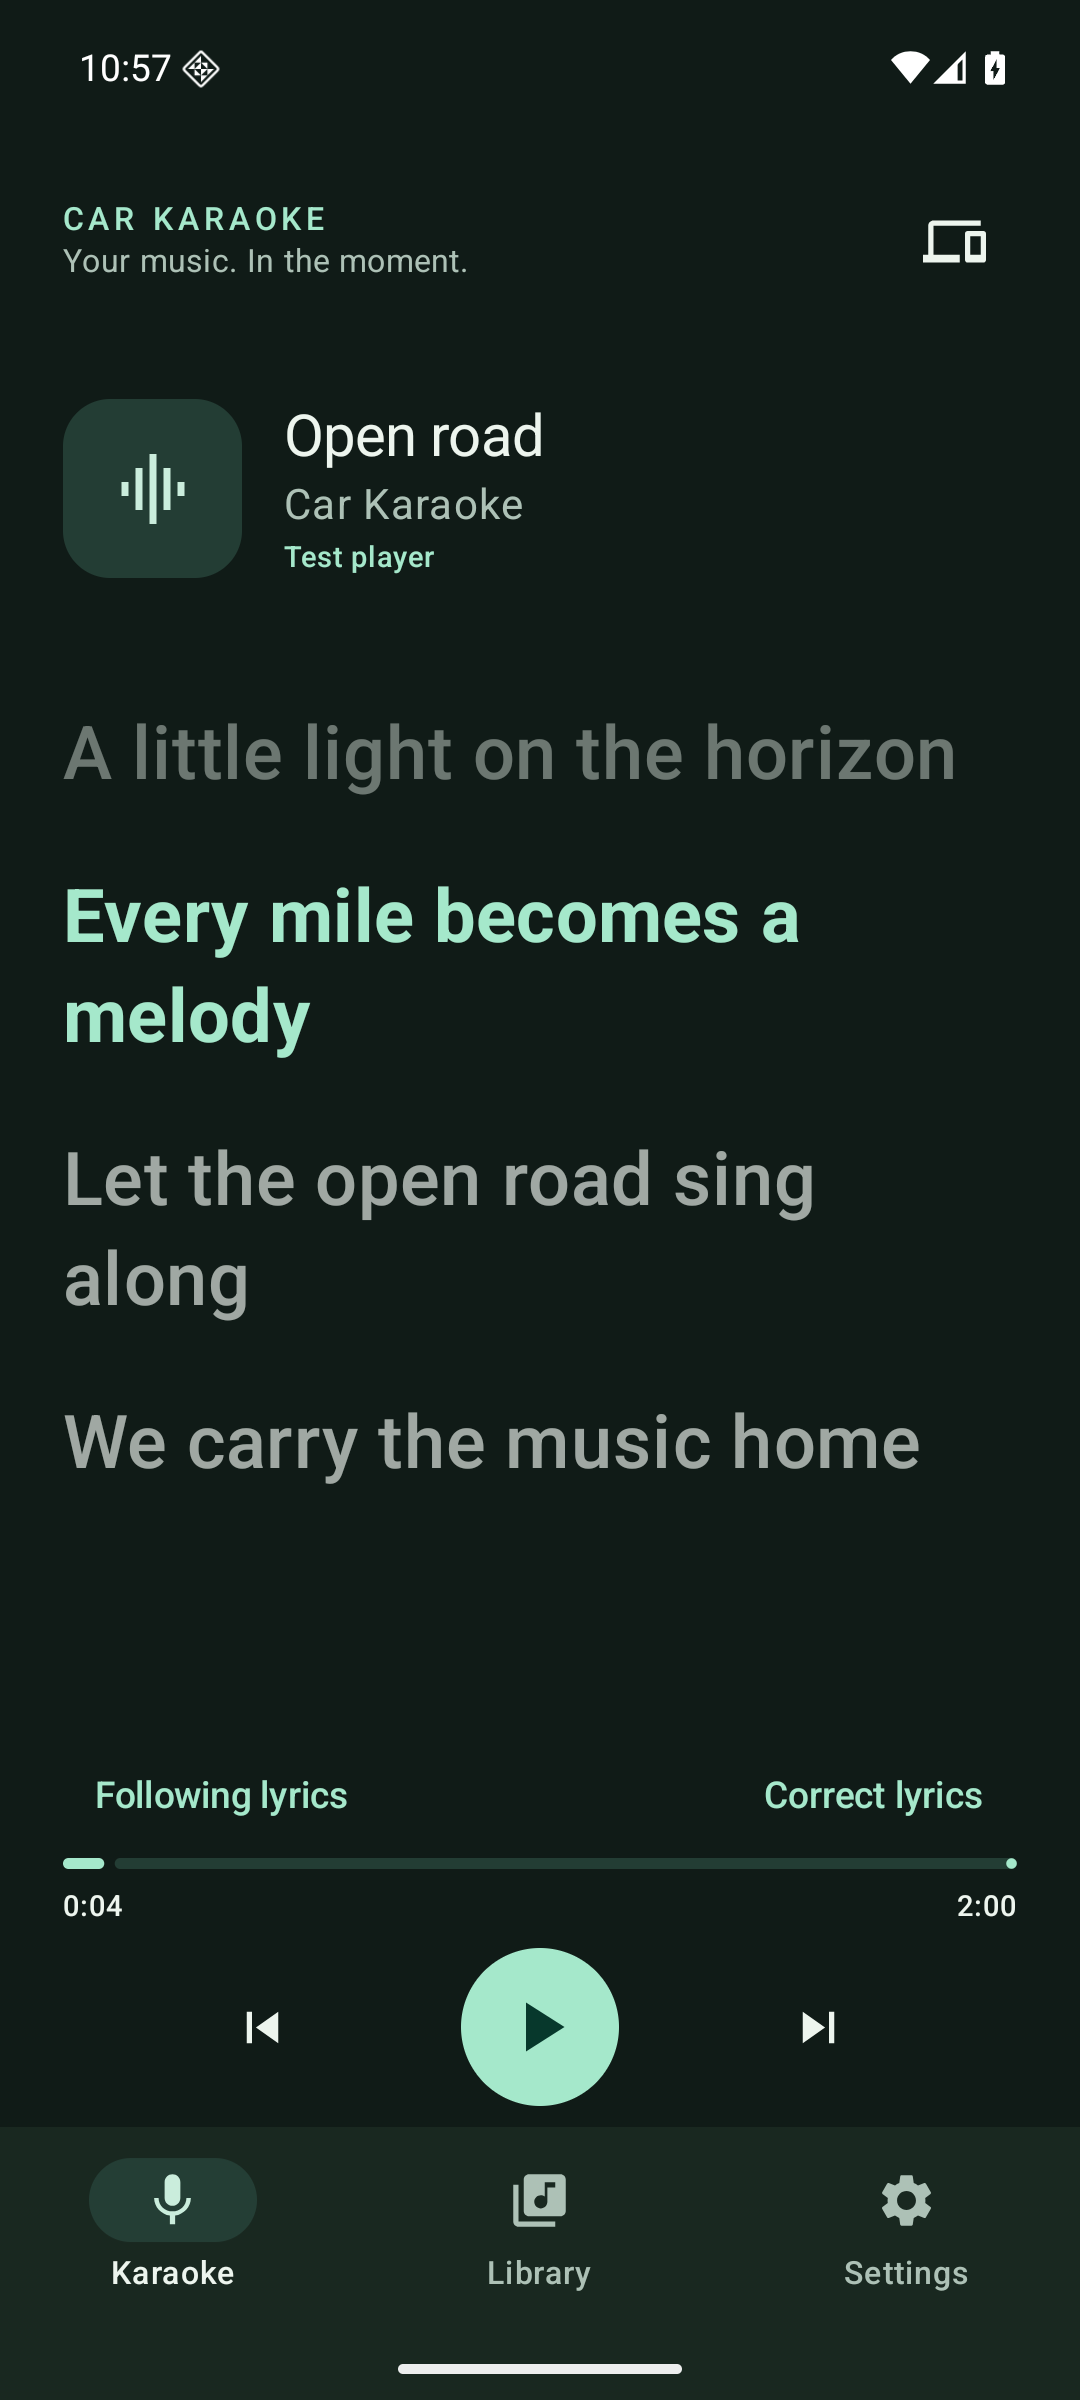
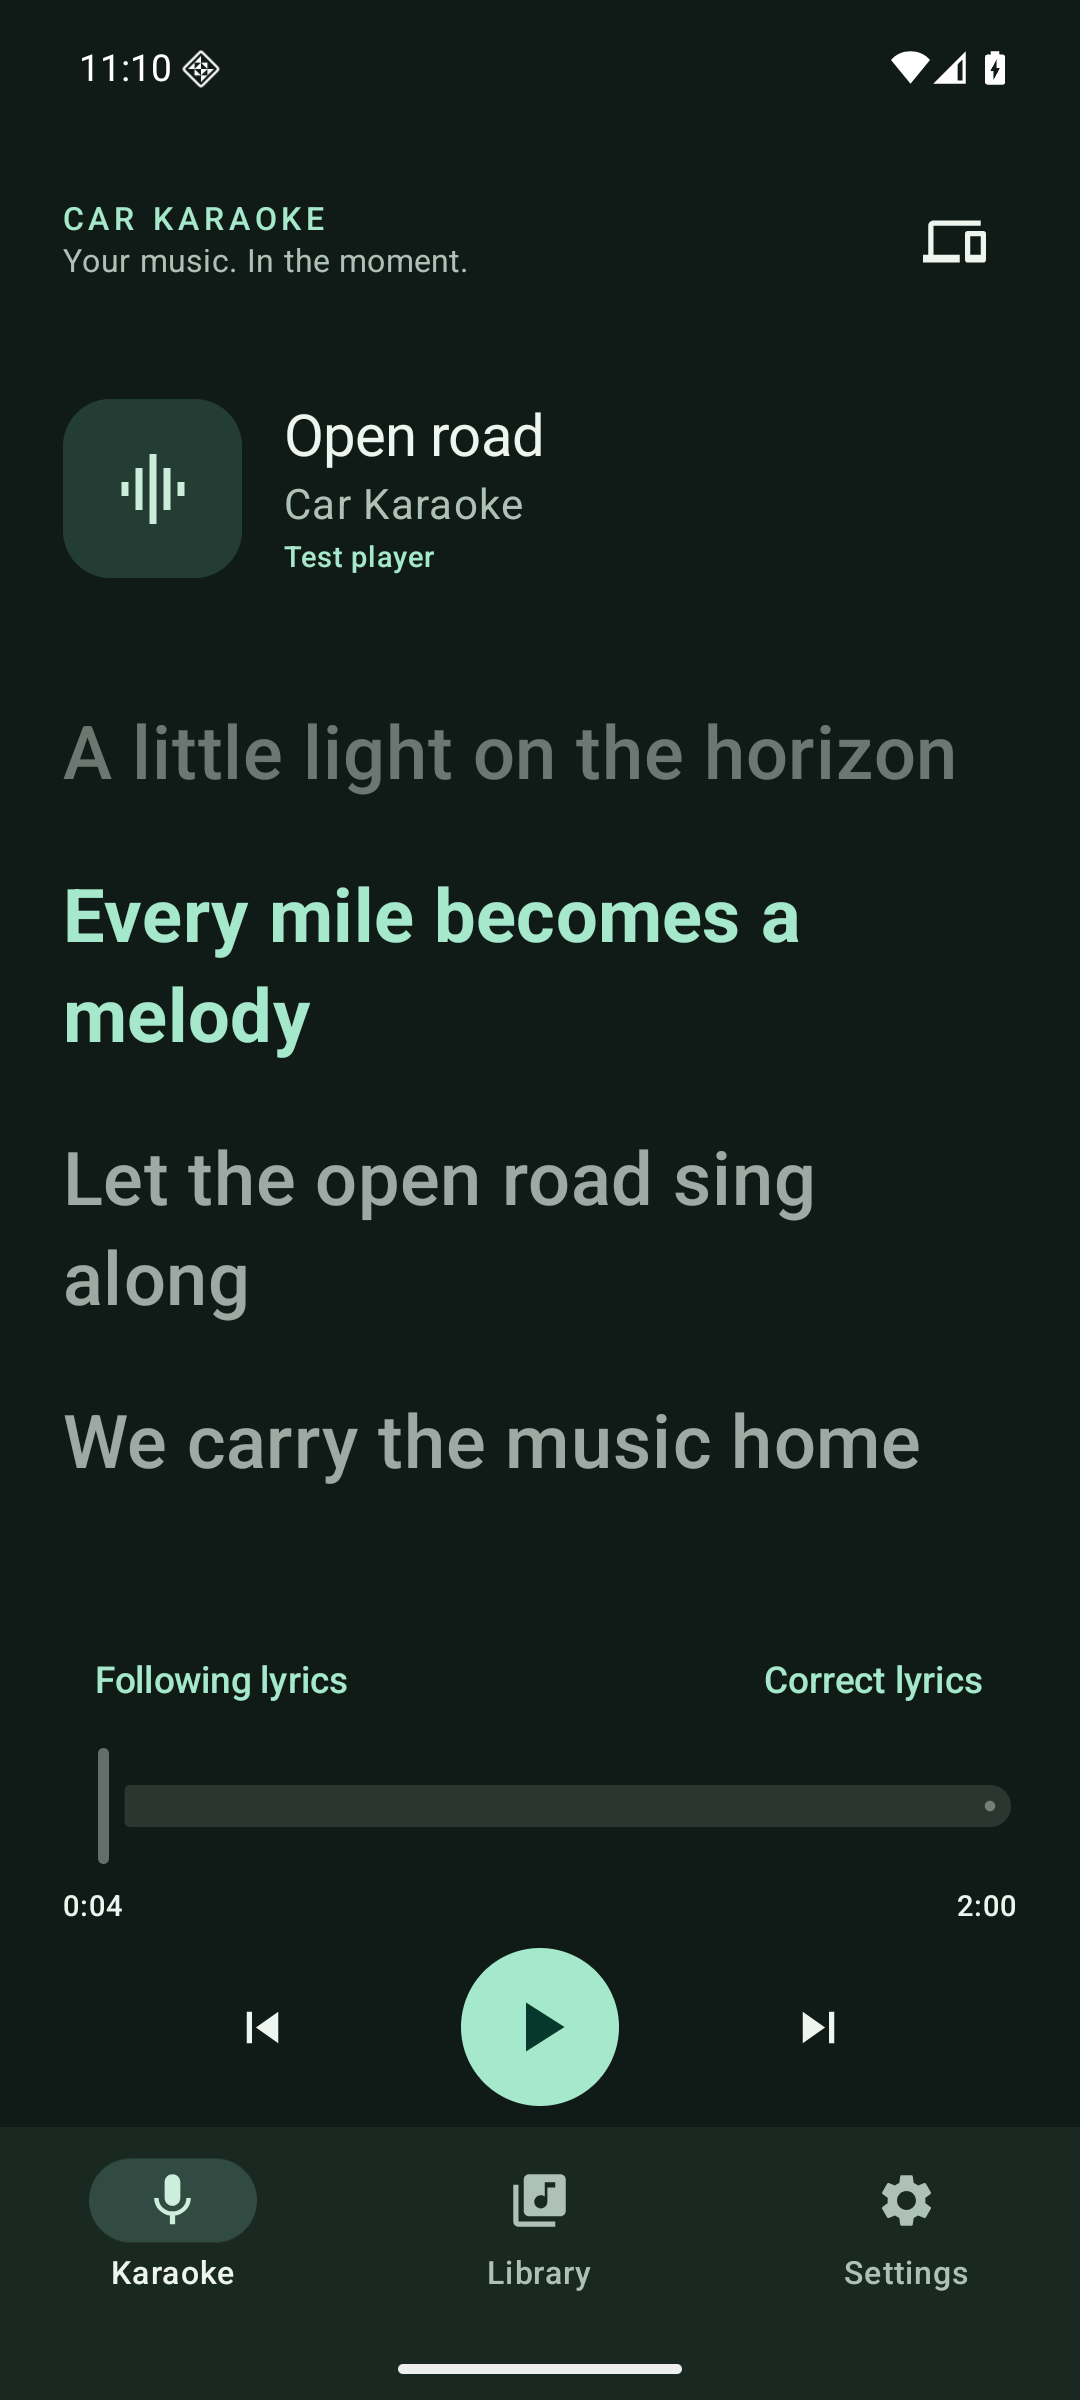
Finish playback controls and acceptance checks

Changed region(s): [[0.0611, 0.6875, 0.9472, 0.7812], [0.0917, 0.0, 0.1528, 0.0312]]

diff --git a/app/src/main/java/io/github/milankablar/carkaraoke/MediaBridgeMediaCallback.kt b/app/src/main/java/io/github/milankablar/carkaraoke/MediaBridgeMediaCallback.kt
@@ -22,7 +22,7 @@ class MediaBridgeMediaCallback internal constructor(
     )
 
     override fun onMediaButtonEvent(mediaButtonEvent: Intent?): Boolean {
-        if (!MediaBridgeSessionManager.isControllerTrusted()) return false
+        if (!MediaBridgeSessionManager.isControllerTrusted() || !canControlActiveSource()) return false
         val keyEvent = mediaButtonEvent?.getParcelableExtra<KeyEvent>(Intent.EXTRA_KEY_EVENT)
 
         if (isSwapEnabled() && keyEvent?.action == KeyEvent.ACTION_DOWN) {
@@ -45,7 +45,7 @@ class MediaBridgeMediaCallback internal constructor(
     }
 
     override fun onPlay() {
-        if (!MediaBridgeSessionManager.isControllerTrusted()) return
+        if (!MediaBridgeSessionManager.isControllerTrusted() || !canControlActiveSource()) return
         Log.d("MediaBridge", "▶ onPlay triggered")
         DiagnosticLogger.info(context, DiagnosticModule.MEDIA, "Play requested")
         MediaControllerManager.getActiveController(context)?.transportControls?.play()
@@ -60,7 +60,7 @@ class MediaBridgeMediaCallback internal constructor(
     }
 
     override fun onPause() {
-        if (!MediaBridgeSessionManager.isControllerTrusted()) return
+        if (!MediaBridgeSessionManager.isControllerTrusted() || !canControlActiveSource()) return
         Log.d("MediaBridge", "⏸ onPause triggered")
         DiagnosticLogger.info(context, DiagnosticModule.MEDIA, "Pause requested")
         MediaControllerManager.getActiveController(context)?.transportControls?.pause()
@@ -68,7 +68,7 @@ class MediaBridgeMediaCallback internal constructor(
     }
 
     override fun onSkipToNext() {
-        if (!MediaBridgeSessionManager.isControllerTrusted()) return
+        if (!MediaBridgeSessionManager.isControllerTrusted() || !canControlActiveSource()) return
         Log.d("MediaBridge", "⏭ onSkipToNext triggered")
         DiagnosticLogger.info(context, DiagnosticModule.MEDIA, "Skip next requested")
         if (isSwapEnabled()) {
@@ -80,7 +80,7 @@ class MediaBridgeMediaCallback internal constructor(
     }
 
     override fun onSkipToPrevious() {
-        if (!MediaBridgeSessionManager.isControllerTrusted()) return
+        if (!MediaBridgeSessionManager.isControllerTrusted() || !canControlActiveSource()) return
         Log.d("MediaBridge", "⏮ onSkipToPrevious triggered")
         DiagnosticLogger.info(context, DiagnosticModule.MEDIA, "Skip previous requested")
         if (isSwapEnabled()) {
@@ -92,7 +92,7 @@ class MediaBridgeMediaCallback internal constructor(
     }
 
     override fun onSeekTo(pos: Long) {
-        if (!MediaBridgeSessionManager.isControllerTrusted()) return
+        if (!MediaBridgeSessionManager.isControllerTrusted() || !canControlActiveSource()) return
         Log.d("MediaBridge", "🎯 onSeekTo triggered: $pos ms")
         DiagnosticLogger.info(context, DiagnosticModule.MEDIA, "Seek requested", mapOf("positionMs" to pos))
         MediaControllerManager.getActiveController(context)?.transportControls?.seekTo(pos)
@@ -101,7 +101,7 @@ class MediaBridgeMediaCallback internal constructor(
     }
 
     override fun onRewind() {
-        if (!MediaBridgeSessionManager.isControllerTrusted()) return
+        if (!MediaBridgeSessionManager.isControllerTrusted() || !canControlActiveSource()) return
         val controller = MediaControllerManager.getActiveController(context) ?: return
         val pos = controller.playbackState?.let { MediaInformationRetriever.getCurrentPositionMs(it) } ?: 0L
         val newPos = (pos - 10_000).coerceAtLeast(0L)
@@ -112,7 +112,7 @@ class MediaBridgeMediaCallback internal constructor(
     }
 
     override fun onFastForward() {
-        if (!MediaBridgeSessionManager.isControllerTrusted()) return
+        if (!MediaBridgeSessionManager.isControllerTrusted() || !canControlActiveSource()) return
         val controller = MediaControllerManager.getActiveController(context) ?: return
         val pos = controller.playbackState?.let { MediaInformationRetriever.getCurrentPositionMs(it) } ?: 0L
         val duration = controller.metadata?.getLong(android.media.MediaMetadata.METADATA_KEY_DURATION) ?: 0L
@@ -139,13 +139,13 @@ class MediaBridgeMediaCallback internal constructor(
             if (info != null) {
                 MediaBridgeSessionManager.updateFromMediaInfo(info)
             }
-            requestPlayback(controller)
+            if (SettingsManager.isAppHeadUnitControlEnabled(context, controller.packageName)) requestPlayback(controller)
             sync()
         }
     }
 
     override fun onCustomAction(action: String?, extras: Bundle?) {
-        if (!MediaBridgeSessionManager.isControllerTrusted()) return
+        if (!MediaBridgeSessionManager.isControllerTrusted() || !canControlActiveSource()) return
         Log.d("MediaBridge", "🎯 Custom action triggered: $action")
         
         when (action) {
@@ -174,6 +174,8 @@ class MediaBridgeMediaCallback internal constructor(
             }
         }
     }
+
+    private fun canControlActiveSource(): Boolean = MediaBridgeSessionManager.getCurrentMediaPackage()?.let { SettingsManager.isAppHeadUnitControlEnabled(context, it) } ?: true
 
     private fun isSwapEnabled(): Boolean {
         val controller = MediaControllerManager.getActiveController(context) ?: return false

diff --git a/app/src/main/java/io/github/milankablar/carkaraoke/ui/CarKaraokeApp.kt b/app/src/main/java/io/github/milankablar/carkaraoke/ui/CarKaraokeApp.kt
@@ -122,7 +122,7 @@ private fun KaraokeScreen(state: KaraokeState, correct: () -> Unit, apps: () -> 
             }
             IconButton(onClick = apps) { Icon(Icons.Default.Devices, "Choose music app") }
         }
-        if (!hasNotificationAccess(context)) {
+        if (!hasNotificationAccess(context) && state.info == null) {
             ElevatedCard(Modifier.fillMaxWidth()) {
                 Column(Modifier.padding(20.dp)) {
                     Text("Connect your music", style = MaterialTheme.typography.titleLarge)
@@ -184,7 +184,18 @@ private fun KaraokeScreen(state: KaraokeState, correct: () -> Unit, apps: () -> 
                 TextButton(onClick = correct) { Text("Correct lyrics") }
             }
             val duration = state.info!!.duration
-            if (duration > 0) LinearProgressIndicator(progress = { (state.positionMs.toFloat() / duration).coerceIn(0f, 1f) }, modifier = Modifier.fillMaxWidth())
+            if (duration > 0) {
+                var scrubbing by remember(state.track?.key) { mutableStateOf(false) }
+                var seekPosition by remember(state.track?.key) { mutableFloatStateOf(0f) }
+                Slider(value = if (scrubbing) seekPosition else state.positionMs.toFloat().coerceIn(0f, duration.toFloat()),
+                    onValueChange = { scrubbing = true; seekPosition = it }, valueRange = 0f..duration.toFloat(),
+                    enabled = state.info!!.sourceActions?.let { it and PlaybackState.ACTION_SEEK_TO != 0L } ?: false,
+                    onValueChangeFinished = {
+                        MediaControllerManager.getActiveController(context)?.transportControls?.seekTo(seekPosition.toLong())
+                        scrubbing = false
+                        MediaBridgeSessionManager.requestRefresh("Phone seek", 250)
+                    }, modifier = Modifier.fillMaxWidth())
+            }
             Row(Modifier.fillMaxWidth().padding(top = 6.dp), horizontalArrangement = Arrangement.SpaceBetween) {
                 Text(timeLabel(state.positionMs), style = MaterialTheme.typography.labelSmall)
                 Text(timeLabel(duration), style = MaterialTheme.typography.labelSmall)

diff --git a/app/src/test/java/io/github/milankablar/carkaraoke/MediaBridgeMediaCallbackTest.kt b/app/src/test/java/io/github/milankablar/carkaraoke/MediaBridgeMediaCallbackTest.kt
@@ -35,6 +35,8 @@ class MediaBridgeMediaCallbackTest {
 
     @Before
     fun setUp() {
+        mockkObject(SettingsManager)
+        every { SettingsManager.isAppHeadUnitControlEnabled(context, SOURCE_PACKAGE) } returns true
         mockkObject(MediaControllerManager)
         mockkObject(MediaInformationRetriever)
         mockkObject(MediaBridgeSessionManager)
@@ -53,6 +55,7 @@ class MediaBridgeMediaCallbackTest {
 
     @After
     fun tearDown() {
+        unmockkObject(SettingsManager)
         unmockkObject(DiagnosticLogger)
         unmockkObject(MediaBridgeSessionManager)
         unmockkObject(MediaInformationRetriever)
@@ -81,6 +84,15 @@ class MediaBridgeMediaCallbackTest {
         callback.onPlayFromMediaId(SOURCE_PACKAGE, null)
         verify(exactly = 0) { MediaBridgeSessionManager.updateFromMediaInfo(any()) }
         org.junit.Assert.assertFalse(called)
+    }
+
+    @Test
+    fun `disabled head unit control permits selection without starting playback`() {
+        every { SettingsManager.isAppHeadUnitControlEnabled(context, SOURCE_PACKAGE) } returns false
+        var played = false
+        MediaBridgeMediaCallback(context) { played = true }.onPlayFromMediaId(SOURCE_PACKAGE, null)
+        verify { MediaControllerManager.select(controller) }
+        org.junit.Assert.assertFalse(played)
     }
 
     private companion object {

diff --git a/app/src/androidTest/java/io/github/milankablar/carkaraoke/KaraokeUiTest.kt b/app/src/androidTest/java/io/github/milankablar/carkaraoke/KaraokeUiTest.kt
@@ -28,6 +28,8 @@ class KaraokeUiTest {
         instrumentation.uiAutomation.takeScreenshot().let { bitmap -> File(directory, "$name.png").outputStream().use { bitmap.compress(android.graphics.Bitmap.CompressFormat.PNG, 100, it) }; bitmap.recycle() }
     }
     @Test fun sharedLyricsAndCleanSettings() {
+        compose.activity.getSharedPreferences("presentation", 0).edit().putString("theme", "Light").commit()
+        compose.activityRule.scenario.recreate()
         seed()
         compose.onNodeWithText("Every mile becomes a melody").assertIsDisplayed()
         val state = KaraokeRuntime.coordinator.state.value

diff --git a/app/src/main/java/io/github/milankablar/carkaraoke/MediaBridgeSessionManager.kt b/app/src/main/java/io/github/milankablar/carkaraoke/MediaBridgeSessionManager.kt
@@ -233,7 +233,6 @@ object MediaBridgeSessionManager {
 
     internal fun isControllerTrusted(): Boolean {
         val ctx = context ?: return false
-        if (currentMediaInfo?.let { !SettingsManager.isAppHeadUnitControlEnabled(ctx, it.appPackageName) } == true) return false
         val caller = runCatching { mediaSession?.currentControllerInfo }.getOrNull() ?: return false
         return MediaClientValidator.isTrusted(ctx, caller.packageName, caller.uid)
     }

diff --git a/docs/architecture.md b/docs/architecture.md
@@ -27,4 +27,4 @@ flowchart LR
 
 Phone presentation is Compose Material 3 with Karaoke/Library/Settings navigation. `CarLyricsPresenter` derives the car window from the same state. The browser exposes Live lyrics and Music apps; car refreshes are coalesced at 300 ms and lyrics are also published in display metadata. Compatibility mode puts lyrics into the displayed title, while source identity remains unchanged. Car rendering is host-controlled and needs DHU/head-unit validation.
 
-Legacy `LyricDisplayManager`, `LyricCache` and provider implementations remain for the existing editor/library tools and their regression tests. The live bridge no longer starts the old lyric-display engine. Billing has been removed. Media3 migration and multiple Gradle modules are deliberately deferred.
+Legacy `LyricDisplayManager`, `LyricCache` and provider implementations remain for the existing editor/library tools and their regression tests. The live bridge no longer starts the old lyric-display engine. Billing has been removed. Release builds shrink unused dependency code/resources while retaining app/provider models and OpenCC reflection entry points. Media3 migration and multiple Gradle modules are deliberately deferred.

diff --git a/docs/testing.md b/docs/testing.md
@@ -1,5 +1,12 @@
 # Verification and remaining device acceptance
 
+## Current evidence
+
+- 107 local unit tests pass; lint has no errors.
+- Three focused Android 16 emulator integration/UI tests pass: shared phone/car lyrics and corrections, browser-service rows, and phone/car lifecycle ownership plus landscape.
+- Signed release APK certificate/package/version checks pass; shrinking reduced the APK to roughly 5.5 MB.
+- Obtainium 1.6.15 imported the generated configuration successfully in the emulator. Actual release installation/update status is recorded after publishing.
+
 ## Automated checks
 
 Run with Java 17 and an Android SDK containing API 36 and build-tools 35.0.0:
